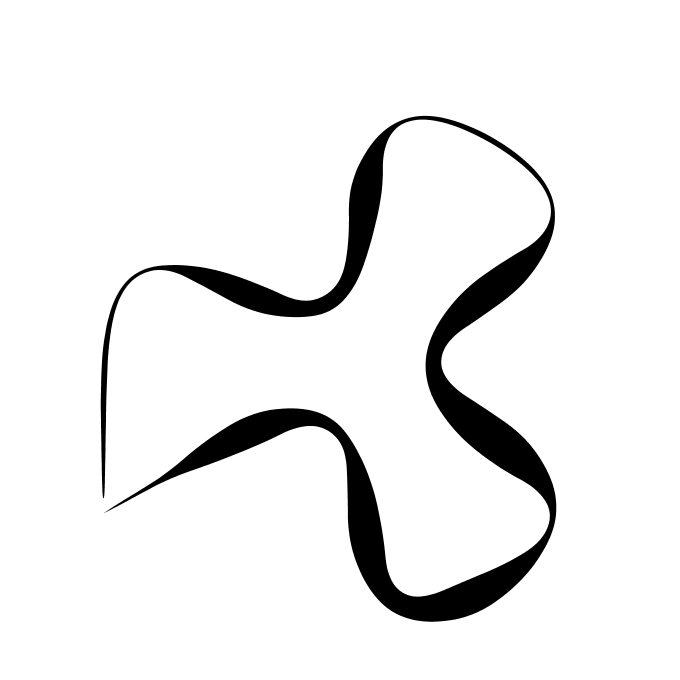
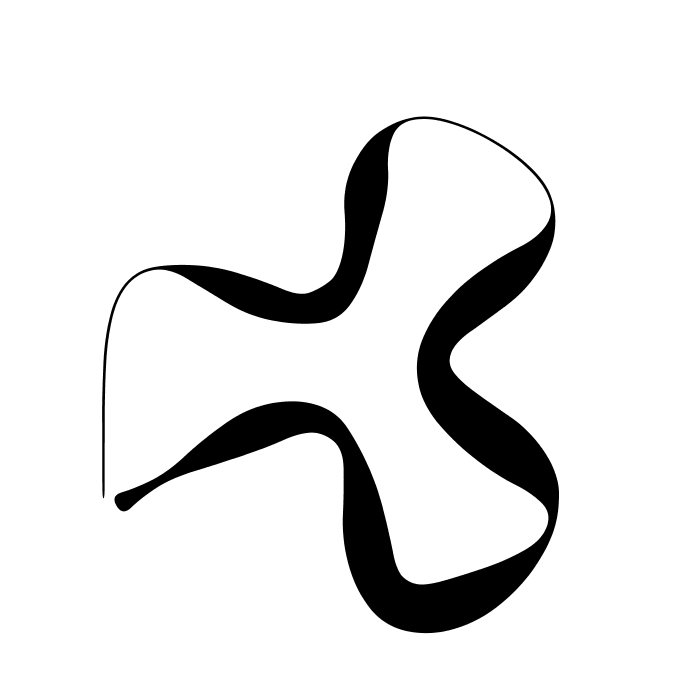
Added min and max width as params to the line.

diff --git a/src/main/kotlin/VariableWidthLine.kt b/src/main/kotlin/VariableWidthLine.kt
@@ -2,17 +2,20 @@ package se.kjellstrand.variablewidthline
 
 import java.awt.Color
 import java.awt.Graphics2D
-import java.awt.geom.AffineTransform
 import java.awt.geom.GeneralPath
 import kotlin.math.*
 
 class VariableWidthLine {
 
     companion object {
-        fun drawLine(line: List<LinePoint>,
-                     g2: Graphics2D,
-                     size: Double) {
-            drawPolygon(buildHullFromPolygon(line, size), g2)
+        fun drawLine(
+            line: List<LinePoint>,
+            g2: Graphics2D,
+            size: Double,
+            minWidth: Double,
+            maxWidth: Double
+        ) {
+            drawPolygon(buildHullFromPolygon(line, size, minWidth, maxWidth), g2)
         }
 
         private fun calculateSidesOfTriangle(p0: LinePoint, p1: LinePoint): Triple<Double, Double, Double> {
@@ -22,7 +25,12 @@ class VariableWidthLine {
             return Triple(a, b, c)
         }
 
-        private fun buildHullFromPolygon(ppList: List<LinePoint>, size: Double): MutableList<LinePoint> {
+        private fun buildHullFromPolygon(
+            ppList: List<LinePoint>,
+            size: Double,
+            minWidth: Double,
+            maxWidth: Double
+        ): MutableList<LinePoint> {
             val leftHull = mutableListOf<LinePoint>()
             val rightHull = mutableListOf<LinePoint>()
 
@@ -35,8 +43,8 @@ class VariableWidthLine {
                 val alfaPlus90 = calculateAlfa(a, c, b, (PI / 2.0))
                 val alfaMinus90 = calculateAlfa(a, c, b, -(PI / 2.0))
 
-                leftHull.add(calculatePerpendicularPolyPoint(p0, p1, size, alfaPlus90))
-                rightHull.add(calculatePerpendicularPolyPoint(p0, p1, size, alfaMinus90))
+                leftHull.add(calculatePerpendicularPolyPoint(p0, p1, size, minWidth, maxWidth, alfaPlus90))
+                rightHull.add(calculatePerpendicularPolyPoint(p0, p1, size, minWidth, maxWidth, alfaMinus90))
             }
 
             val hull = mutableListOf<LinePoint>()
@@ -63,12 +71,19 @@ class VariableWidthLine {
             g2.fill(path)
         }
 
-        private fun calculatePerpendicularPolyPoint(p0: LinePoint, p1: LinePoint, size: Double, alfaPlus90: Double): LinePoint {
+        private fun calculatePerpendicularPolyPoint(
+            p0: LinePoint,
+            p1: LinePoint,
+            size: Double,
+            minWidth: Double,
+            maxWidth: Double,
+            alfaPlus90: Double
+        ): LinePoint {
             val (_, _, c) = calculateSidesOfTriangle(p0, p1)
             // * 0.75 (0.75 + 0.10 == 0.85) to set a max width that is close to touching the nearest line.
             // + 0.10 to set a min width that is still visible.
             // * 3 since we use 3 intermediate points when we generate the polygon (the smooth step adds them)
-            val width = (size * c * (((p0.w + p1.w) / 2) * 0.75 + 0.10)) / 2
+            val width = ((p0.w + p1.w) / 2.0) * (maxWidth - minWidth) / 2.0 + minWidth / 2.0
             val x = (p0.x + p1.x) * size / 2.0 + width * sin(alfaPlus90)
             val y = (p0.y + p1.y) * size / 2.0 + width * cos(alfaPlus90)
             return LinePoint(x, y)

diff --git a/src/test/kotlin/LineTest.kt b/src/test/kotlin/LineTest.kt
@@ -11,15 +11,9 @@ class LineTest {
     internal fun drawALine() {
 
         val line = listOf(
-            LinePoint(0.17242733556095619, 0.8554400374531754, 0.003921568393707275),
-            LinePoint(0.17242733556095619, 0.8554400374531757, 0.003921568393707275),
-            LinePoint(0.17242733556095619, 0.8554400374531754, 0.003921568393707275),
-            LinePoint(0.17242733556095619, 0.8554400374531754, 0.003921568393707275),
-            LinePoint(0.17242733556095619, 0.8554400374531754, 0.003921568393707275),
-            LinePoint(0.17242733556095619, 0.8554400374531754, 0.003921568393707275),
-            LinePoint(0.18108758959880056, 0.8504400374531756, 0.003921568393707275),
-            LinePoint(0.20706835171233373, 0.8354400374531754, 0.003921568393707275),
-            LinePoint(0.25036962190155565, 0.8104400374531755, 0.00784313678741455),
+            LinePoint(0.18108758959880056, 0.8504400374531756, 0.4921568393707275),
+            LinePoint(0.20706835171233373, 0.8354400374531754, 0.2568393707275),
+            LinePoint(0.25036962190155565, 0.8104400374531755, 0.0784313678741455),
             LinePoint(0.31099140016646637, 0.7754400374531756, 0.08235293626785278),
             LinePoint(0.3889336865070658, 0.7304400374531755, 0.8352941125631332),
             LinePoint(0.4668759728476653, 0.6954400374531757, 0.6235294044017792),
@@ -70,7 +64,7 @@ class LineTest {
 
         val (bufferedImage, g2) = setupGraphics(640.0, 20.0)
 
-        VariableWidthLine.drawLine(line, g2, 600.0)
+        VariableWidthLine.drawLine(line, g2, 600.0, minWidth = 2.0, maxWidth = 60.0)
 
         writeImageToPngFile(bufferedImage, "LineTestOutput.png")
 
